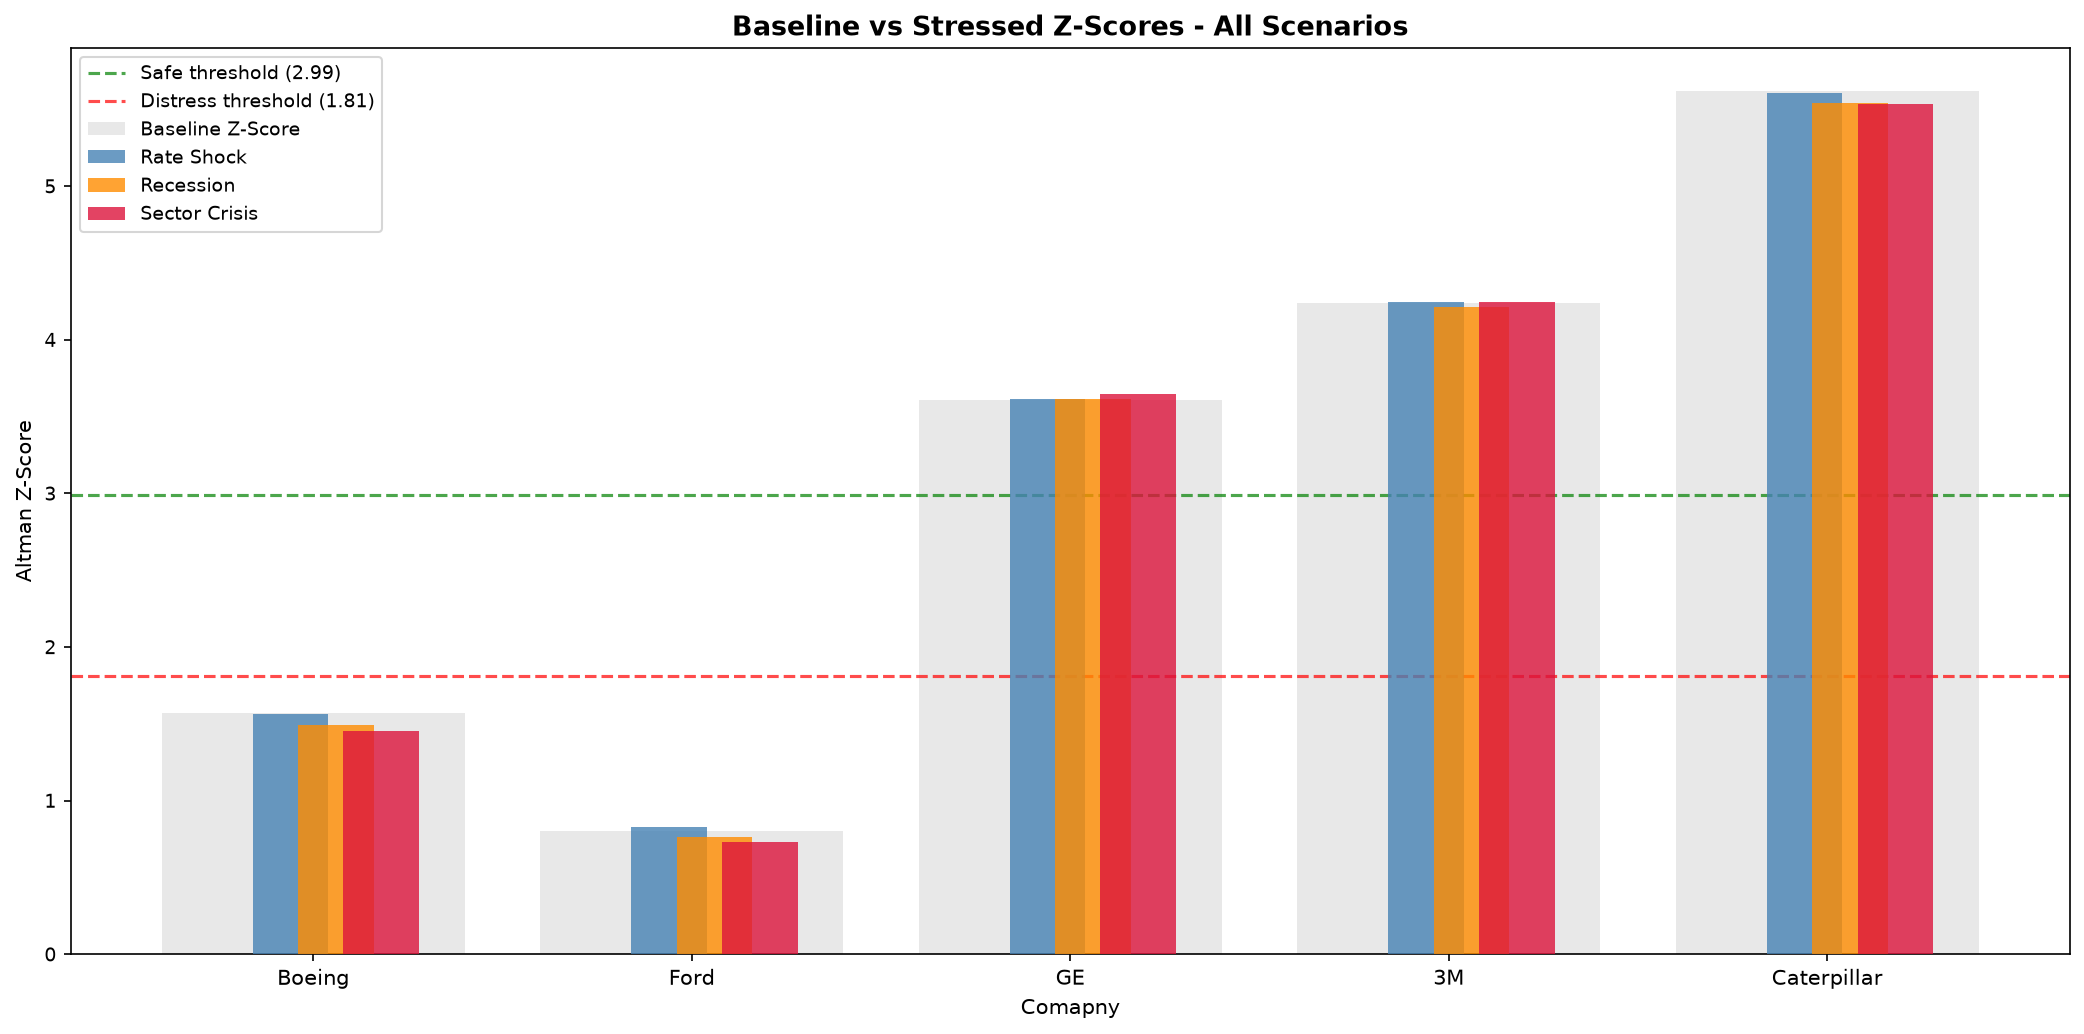
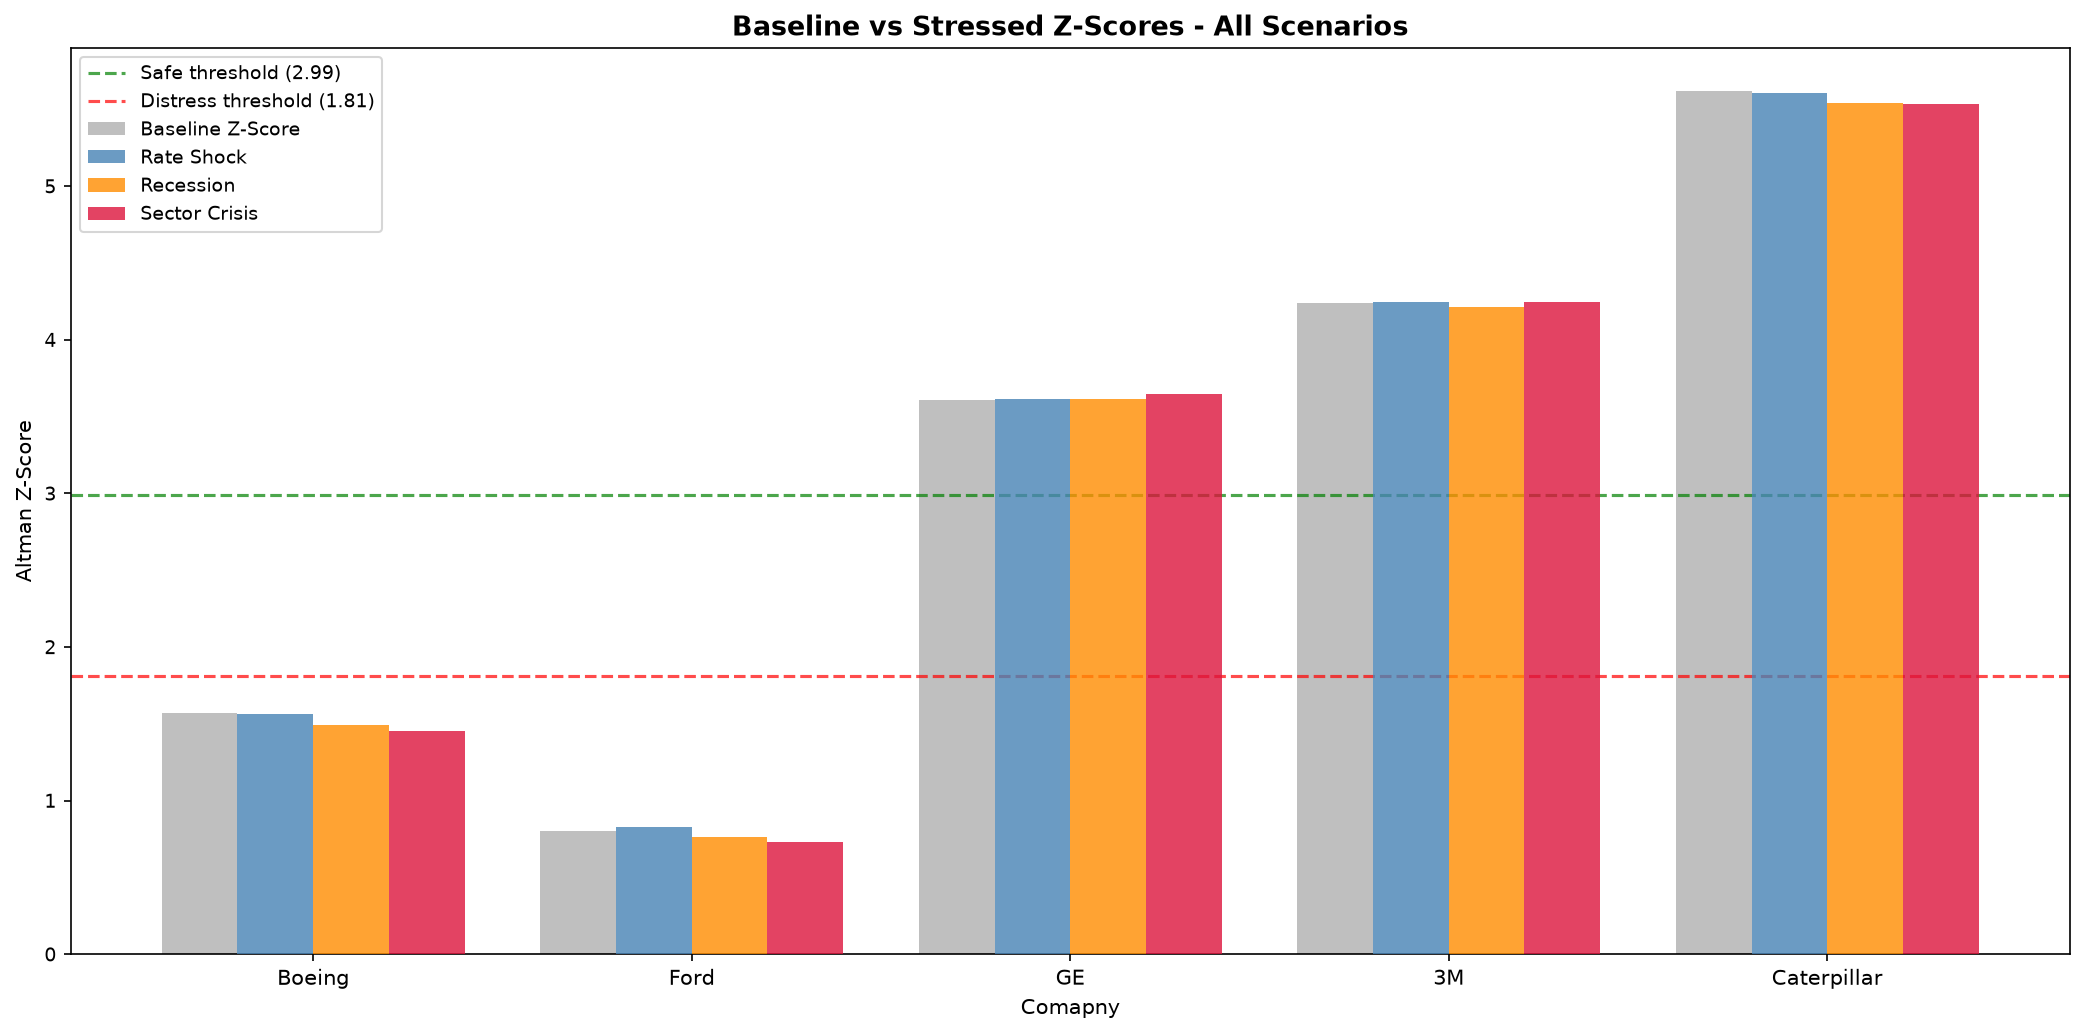
Fix visualizations

diff --git a/visualizations.py b/visualizations.py
@@ -223,17 +223,17 @@ def plot_stress_comparison():
     fig, ax = plt.subplots(figsize = (14,7))
 
     baseline = df.groupby("ticker")["baseline_z"].first()
-    ax.bar(x, [baseline[t] for t in TICKERS],
-               width = 0.8, color = "lightgray", alpha=0.5, 
+    ax.bar(x-0.3, [baseline[t] for t in TICKERS],
+               width = 0.2, color = "gray", alpha=0.5, 
                label = "Baseline Z-Score", zorder=2)
-    
+    scenario_offsets = [-0.1, 0.1, 0.3]
     scenario_colors = ["steelblue", "darkorange", "crimson"]
     for i, (scenario, color) in enumerate(zip(scenarios, scenario_colors)):
         scenario_data = df[df["scenario"] == scenario]
         values = [scenario_data[scenario_data["ticker"]==t]
                  ["median_z"].values[0] for t in TICKERS]
-        ax.bar(x + offsets[i+1] * width * 0.6, values,
-               width=width, color=color, alpha=0.8,
+        ax.bar(x + scenario_offsets[i], values,
+               width=0.2, color=color, alpha=0.8,
                label=f"{scenario}", zorder=3)
         
     ax.axhline(y=2.99, color="green", linewidth=1.5,
@@ -258,22 +258,18 @@ def plot_stress_comparison():
 # Chart 5: Monte Carlo Distribution
 def plot_monte_carlo_distribution():
     """
-    Histogram showing the full distribution of 10,000 simulated
-    Z-Scores for Boeing under the Sector Crisis scenario.
+    Shows the Monte Carlo Z-Score distributions for all five
+    companies under the Recession scenario side by side.
     """
-
-    # import modules
     from stress_simulator import simulated_stressed_zscore
     from stress_simulator import SCENARIOS
-    import sqlite3
 
     conn = get_connection()
-    ba_data = pd.read_sql_query("""
-        SELECT 
+    company_data = pd.read_sql_query("""
+        SELECT
             i.ticker, i.year, i.revenue, i.ebit, i.net_income,
             b.total_assets, b.total_liabilities, b.working_capital,
-            b.retained_earnings, b.shareholders_equity,
-            b.current_assets, b.current_liabilities,
+            b.retained_earnings, b.shareholders_equity, b.current_assets, b.current_liabilities,
             m.market_cap, z.z_score
         FROM income_statement i
         JOIN balance_sheet b
@@ -282,54 +278,72 @@ def plot_monte_carlo_distribution():
             ON i.ticker = m.ticker AND i.year = m.year
         JOIN z_scores z
             ON i.ticker = z.ticker AND i.year = z.year
-        WHERE i.ticker = 'BA'
+        WHERE b.total_assets > 0
         GROUP BY i.ticker
-        HAVING MAX(i.year)
+        HAVING MAX (i.year)
+        ORDER BY i.ticker
     """, conn)
     conn.close()
 
-    ba_row = ba_data.iloc[0]
-    scenario = SCENARIOS["Sector Crisis"]
-
+    scenario = SCENARIOS["Recession"]
     np.random.seed(42)
-    simulated_z_scores = simulated_stressed_zscore(
-        ba_row, scenario, 10000)
-    fig, ax = plt.subplots(figsize=(12,6))
-    ax.hist(simulated_z_scores, bins=60,
-            color="steelblue", alpha=0.7,
-            edgecolor="white", linewidth=0.5,
-            density=True, label="Simulated Z-Scores")
     
-    median_z = np.percentile(simulated_z_scores, 50)
-    p5_z = np.percentile(simulated_z_scores, 5)
-    p1_z = np.percentile(simulated_z_scores, 1)
-
-    ax.axvline(x=ba_row["z_score"], color="black",
-               linewidth=2, linestyle="-",
-               label=f"Basline Z-Score: {ba_row['z_score']:.3f}")
-    ax.axvline(x=median_z, color="green",
-               linewidth=2, linestyle="--",
-               label=f"Median Stressed: {median_z:.3f}")
-    ax.axvline(x=p5_z, color="orange",
-               linewidth=2, linestyle=":",
-               label=f"P5 (5th Percentile): {p5_z:.3f}")
-    ax.axvline(x=p1_z, color="red",
-               linewidth=2, linestyle="-.",
-               label=f"P1 (1st Percentile): {p1_z:.3f}")
+    fig, axes = plt.subplots(1, 5, figsize=(20,6))
+    fig.suptitle(
+        "Monte Carlo Z-Score Distributions - Recession Scenario "
+        "(10,000 Simulations)",
+        fontsize=13, fontweight="bold")
     
-    ax.axvspan(ax.get_xlim()[0], 1.81,
-               alpha=0.1, color="red",
-               label="Distress Zone (Z < 1.81)")
-    ax.set_title("Boeing - Monte Carlo Z-Score Distribution\n"
-                 "Sector Crsis Scenario (10,000 Simulations)",
-                 fontsize=13, fontweight="bold")
-    ax.set_xlabel("Simulated Altman Z-Score", fontsize=10)
-    ax.set_ylabel("Density", fontsize=10)
-    ax.legend(fontsize=9)
-    ax.tick_params(axis="both", labelsize=9)
+    for ax, ticker in zip(axes, TICKERS):
+        row = company_data[company_data["ticker"] == ticker].iloc[0]
+        simulated = simulated_stressed_zscore(row, scenario, 10000)
 
-    plt.tight_layout()
-    save_chart("5_monte_carlo_boeing.png")
+        ax.hist(simulated, bins=50,
+                color = COLORS[ticker], alpha=0.7,
+                edgecolor="white", linewidth=0.3, density=True)
+        
+        x_min = simulated.min() - 0.05
+        x_max = simulated.max() + 0.05
+        ax.set_xlim(x_min, x_max)
+
+        if x_min < 1.81:
+            ax.axvspan(x_min, min(1.81, x_max),
+                       alpha=0.15, color="red", zorder=0)
+        if x_min < 2.99 and x_max > 1.81:
+            ax.axvspan(max(x_min, 1.81), min(2.99, x_max),
+                       alpha=0.15, color="yellow", zorder=0)
+        if x_min > 2.99:
+            ax.axvspan(max(x_min, 2.99), x_max,
+                       alpha=0.15, color="green", zorder=0)  
+
+        baseline = row["z_score"]
+        median_z = np.percentile(simulated, 50)
+
+        ax.axvline(x=baseline, color="black",
+                   linewidth=1.5, linestyle="-",
+                   label=f"Baseline: {baseline:.2f}") 
+        ax.axvline(x=median_z, color="white",
+                   linewidth=1.5, linestyle="--",
+                   label=f"Median: {median_z:.2f}")
+        
+        ax.set_title(COMPANY_NAMES[ticker],
+                     fontsize=11, fontweight="bold",
+                     color=COLORS[ticker])
+        ax.set_xlabel("Z-Score", fontsize=8)
+        ax.set_ylabel("Density", fontsize=8)
+        ax.tick_params(axis="both", labelsize=7)
+        ax.legend(fontsize=6.5)
+
+    plt.tight_layout(rect=[0, 0, 1, 0.93])
+    save_chart("5_monte_carlo_distributions.png")
+         
+
+   
+        
+
+
+    
+
 
 if __name__ == "__main__":
     print("=" * 75)